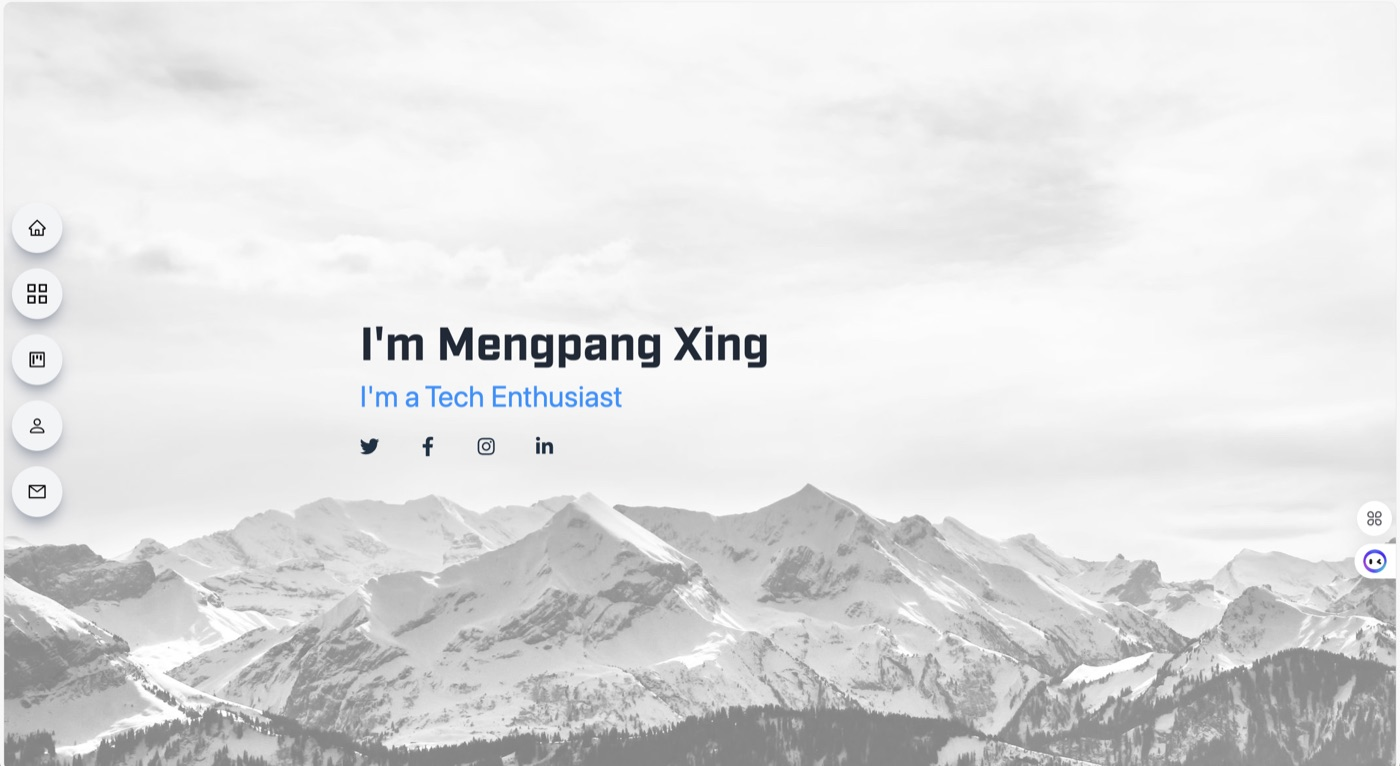
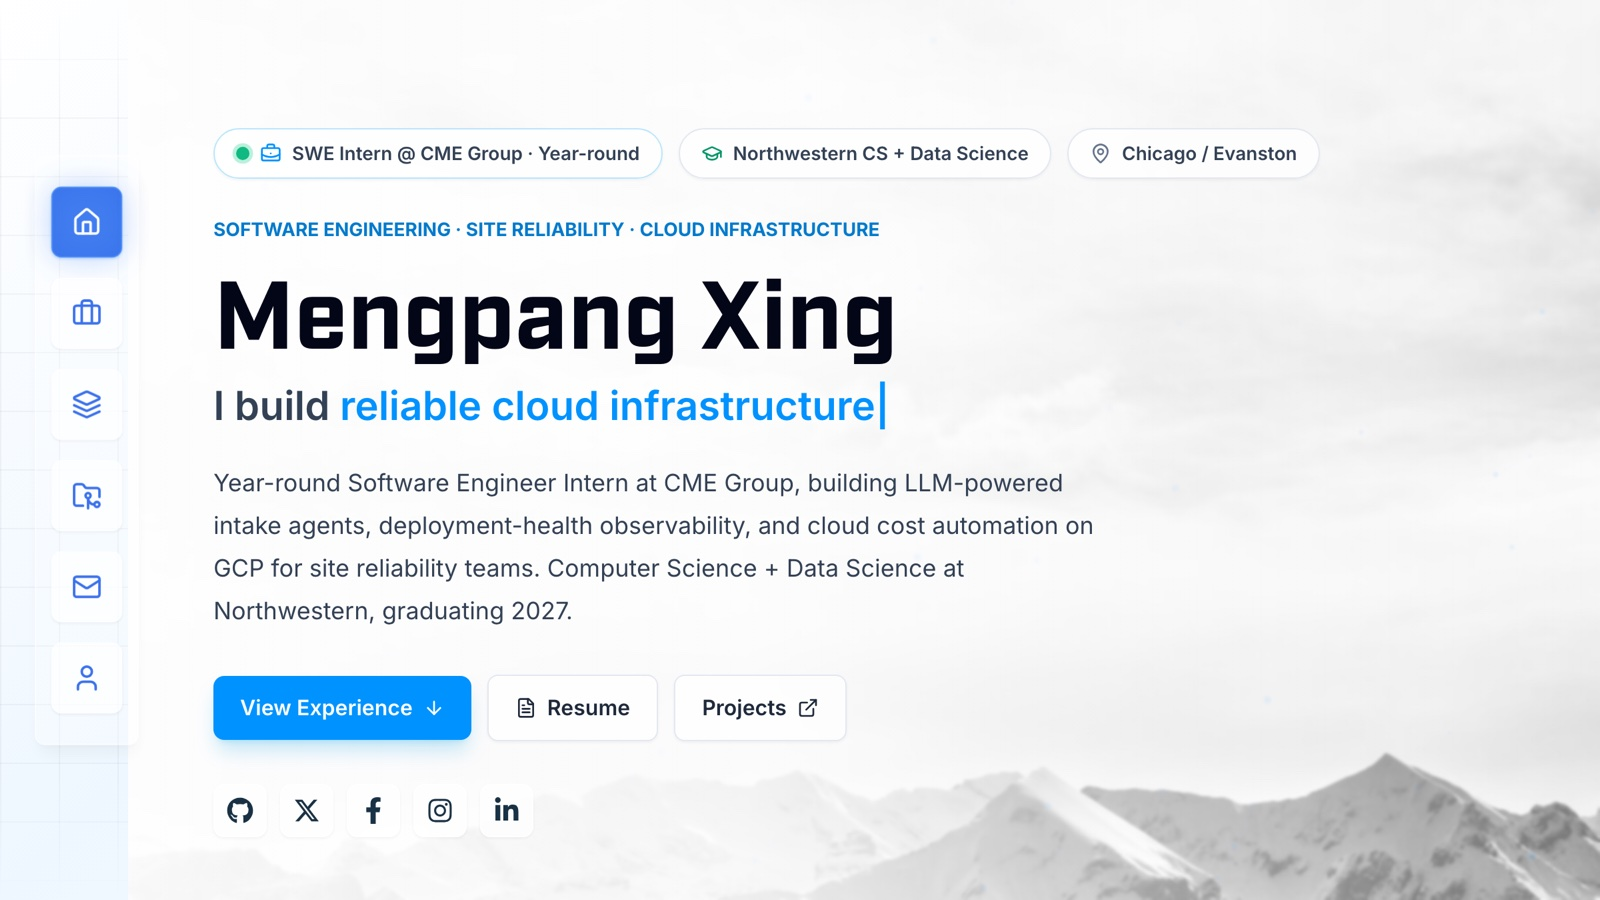
Fix contact confirmation overlay and refresh portfolio thumbnails
- Confirmation overlay now layers above form fields, with a direct email fallback
- New screenshots for this site and Lynn Xing's portfolio

diff --git a/src/components/Contact.jsx b/src/components/Contact.jsx
@@ -97,10 +97,10 @@ const Contact = () => {
     setSubmitStatus('success');
     setIsSubmitting(false);
     
-    // Reset status after 4 seconds
+    // Reset status after 6 seconds
     setTimeout(() => {
       setSubmitStatus(null);
-    }, 4000);
+    }, 6000);
   };
   
   // Animation for section
@@ -183,18 +183,22 @@ const Contact = () => {
         <div className="overflow-hidden rounded-lg border border-white/80 bg-white/90 shadow-[0_18px_55px_rgba(15,23,42,0.08)] backdrop-blur">
           <div className="relative p-6 sm:p-8">
             {submitStatus === 'success' && (
-              <div className="absolute inset-0 flex flex-col items-center justify-center bg-white">
+              <div className="fade-in absolute inset-0 z-20 flex flex-col items-center justify-center bg-white px-6 text-center">
                 <div className="rounded-full bg-green-100 p-4">
                   <Check className="h-12 w-12 text-green-600" />
                 </div>
                 <h3 className="mt-4 text-xl font-bold text-gray-900">Almost there!</h3>
-                <p className="mt-2 max-w-sm px-6 text-center text-gray-600">Your email app should open with the message ready to send. Thanks for reaching out!</p>
+                <p className="mt-2 max-w-sm text-gray-600">Your email app should open with the message ready to send. Thanks for reaching out!</p>
+                <p className="mt-4 text-sm text-slate-500">
+                  Nothing opened? Email me at{' '}
+                  <a href={`mailto:${CONTACT_EMAIL}`} className="font-semibold text-blue-600 hover:underline">{CONTACT_EMAIL}</a>
+                </p>
               </div>
             )}
             
             {/* Error overlay */}
             {submitStatus === 'error' && (
-              <div className="absolute inset-0 flex flex-col items-center justify-center bg-white">
+              <div className="fade-in absolute inset-0 z-20 flex flex-col items-center justify-center bg-white px-6 text-center">
                 <div className="rounded-full bg-red-100 p-4">
                   <AlertTriangle className="h-12 w-12 text-red-600" />
                 </div>
